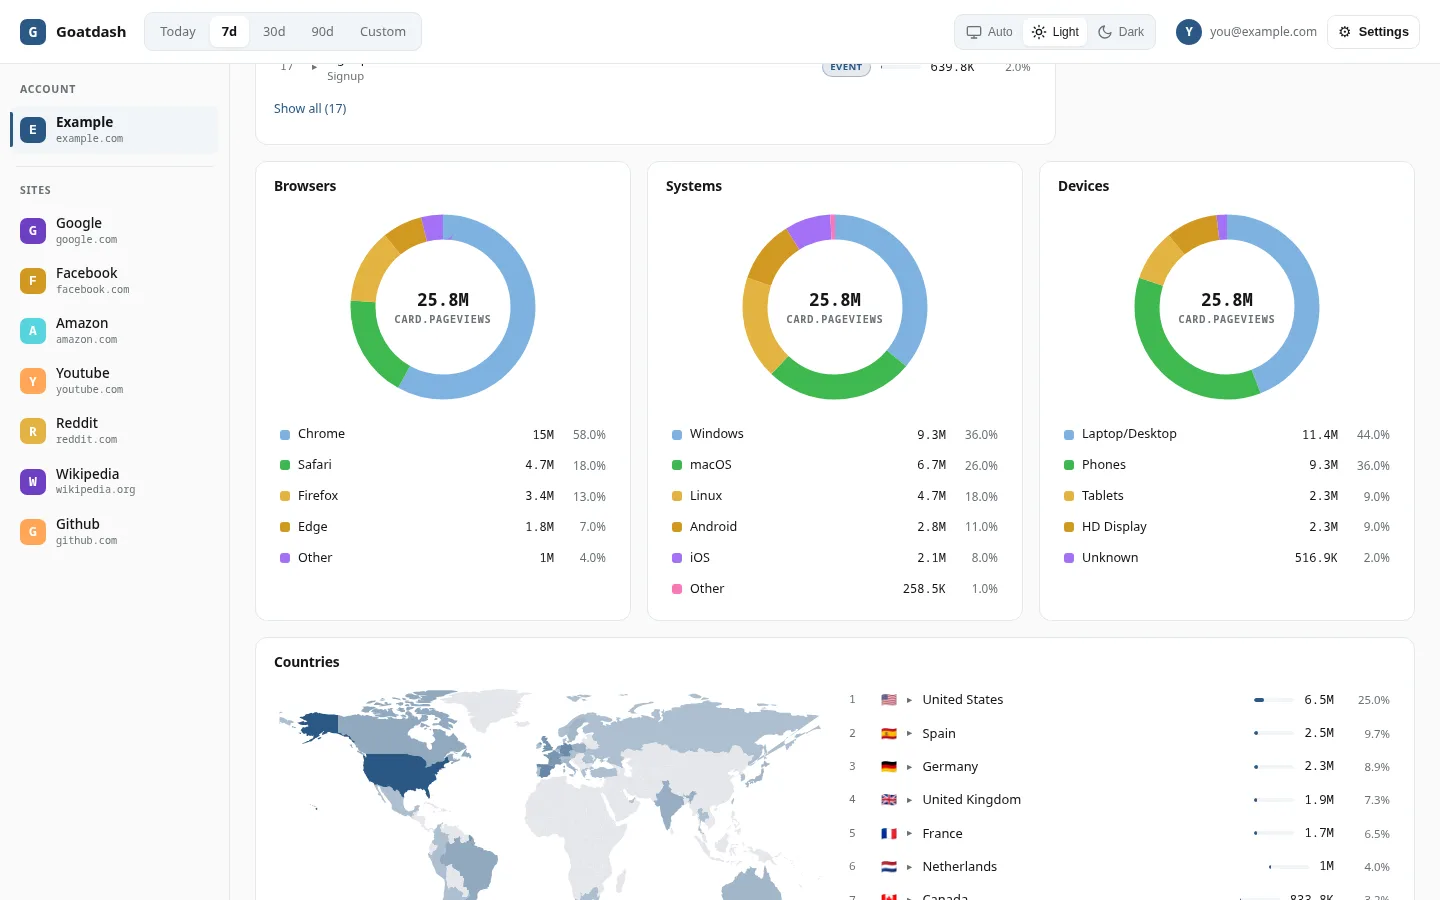
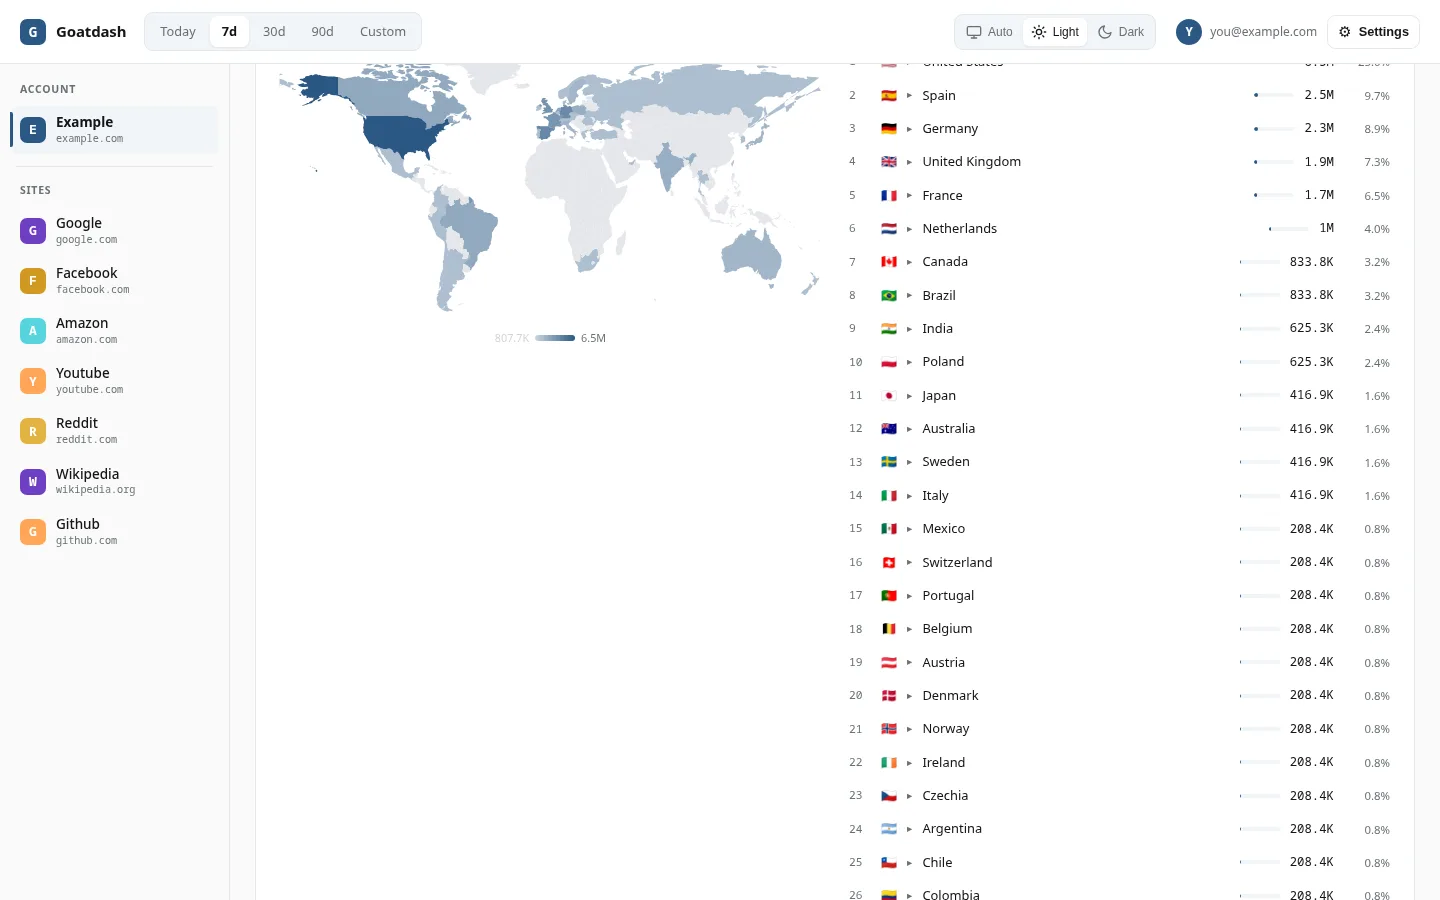
feat(landing): screenshots as a scroll sequence, cover to page bottom
Replace the standalone views with a vertical scroll story: cover (KPIs +
traffic), pages/referrers/languages, browsers/systems/devices, and the
world map at the bottom. All 16 shots at 1440px with millions traffic and
simulated domains; demo banner and demo user label removed. Cache-bust v2.

diff --git a/landing/index.html b/landing/index.html
@@ -28,7 +28,7 @@
   <link rel="preconnect" href="https://fonts.googleapis.com" />
   <link rel="preconnect" href="https://fonts.gstatic.com" crossorigin />
   <link href="https://fonts.googleapis.com/css2?family=Space+Grotesk:wght@400;500;600;700&family=JetBrains+Mono:wght@400;500;600&display=swap" rel="stylesheet" />
-  <link rel="stylesheet" href="styles.css?v=1" />
+  <link rel="stylesheet" href="styles.css?v=2" />
   <script type="application/ld+json">
   {
     "@context": "https://schema.org",
@@ -206,17 +206,16 @@
       <h2 class="font-display" data-i18n="shots.title">Un vistazo a la interfaz.</h2>
       <div class="slider reveal">
         <div class="slider-main">
-          <img id="shotImg" src="assets/shot-main-es-light.webp" alt="Vista principal: KPIs, tráfico y referrers" tabindex="0" data-i18n-aria="shots.open" />
+          <img id="shotImg" src="assets/shot-cover-es-light.webp" alt="Portada del dashboard: KPIs y tráfico" tabindex="0" data-i18n-aria="shots.open" />
           <button id="shotPrev" class="slider-btn slider-prev" aria-label="Captura anterior" data-i18n-aria="shots.prev">‹</button>
           <button id="shotNext" class="slider-btn slider-next" aria-label="Captura siguiente" data-i18n-aria="shots.next">›</button>
         </div>
         <p class="slider-caption" id="shotCaption">Vista principal: KPIs, tráfico y referrers</p>
         <div class="thumbs" role="group" aria-label="Capturas">
-          <button type="button" class="thumb" data-slide="0" aria-label="Vista principal"><img src="assets/shot-main-es-light.webp" alt="" data-view="main" /></button>
-          <button type="button" class="thumb" data-slide="1" aria-label="Mapa mundial"><img src="assets/shot-map-es-light.webp" alt="" data-view="map" /></button>
-          <button type="button" class="thumb" data-slide="2" aria-label="Referrers"><img src="assets/shot-referrers-es-light.webp" alt="" data-view="referrers" /></button>
-          <button type="button" class="thumb" data-slide="3" aria-label="Sidebar"><img src="assets/shot-sidebar-es-light.webp" alt="" data-view="sidebar" /></button>
-          <button type="button" class="thumb" data-slide="4" aria-label="Geo"><img src="assets/shot-geo-es-light.webp" alt="" data-view="geo" /></button>
+          <button type="button" class="thumb" data-slide="0" aria-label="Portada"><img src="assets/shot-cover-es-light.webp" alt="" data-view="cover" /></button>
+          <button type="button" class="thumb" data-slide="1" aria-label="Páginas"><img src="assets/shot-pages-es-light.webp" alt="" data-view="pages" /></button>
+          <button type="button" class="thumb" data-slide="2" aria-label="Navegadores"><img src="assets/shot-donuts-es-light.webp" alt="" data-view="donuts" /></button>
+          <button type="button" class="thumb" data-slide="3" aria-label="Mapa"><img src="assets/shot-geo-es-light.webp" alt="" data-view="geo" /></button>
         </div>
       </div>
     </div></section>
@@ -331,8 +330,8 @@
     </div>
   </div>
 
-  <script src="i18n.js?v=1"></script>
-  <script src="app.js?v=1"></script>
+  <script src="i18n.js?v=2"></script>
+  <script src="app.js?v=2"></script>
   <script data-goatcounter="https://stats.goatdash.cloudless.club/count" async src="//stats.goatdash.cloudless.club/count.js"></script>
 </body>
 </html>

diff --git a/landing/app.js b/landing/app.js
@@ -8,13 +8,12 @@
   const root = document.documentElement;
 
   /* Capturas: orden de las vistas + alt por idioma */
-  const SLIDES = ['main', 'map', 'referrers', 'sidebar', 'geo'];
+  const SLIDES = ['cover', 'pages', 'donuts', 'geo'];
   const SHOT_ALT = {
-    main: { es: 'Vista principal del dashboard: cinco tarjetas de KPI, gráfico de tráfico y tarjeta de referencias', en: 'Main dashboard view: five KPI cards, traffic chart and the referrers card' },
-    map: { es: 'Mapa mundial coroplético con países sombreados por número de visitas', en: 'Choropleth world map with countries shaded by visit count' },
-    referrers: { es: 'Tarjeta de referencias con los canales Directo, Buscadores, Campañas y Otros sitios', en: 'Referrers card with the Direct, Search engines, Campaigns and Other sites channels' },
-    sidebar: { es: 'Dashboard con la barra lateral abierta, listando la cuenta y sus subsitios', en: 'Dashboard with the sidebar open, listing the account and its subsites' },
-    geo: { es: 'Mapa mundial coroplético sombreado por visitas junto a la lista de países principales', en: 'Choropleth world map shaded by visits next to the top countries list' }
+    cover: { es: 'Portada del dashboard: cinco tarjetas de KPI y el gráfico de tráfico', en: 'Dashboard cover: five KPI cards and the traffic chart' },
+    pages: { es: 'Scroll medio: páginas principales, referencias y idiomas', en: 'Middle scroll: top pages, referrers and languages' },
+    donuts: { es: 'Scroll inferior: navegadores, sistemas y dispositivos', en: 'Lower scroll: browsers, systems and devices' },
+    geo: { es: 'Fondo de la página: mapa mundial de visitas por país', en: 'Page bottom: world map of visits by country' }
   };
 
   /* ---------- Idioma ---------- */

diff --git a/landing/i18n.js b/landing/i18n.js
@@ -74,11 +74,10 @@ const I18N = {
 
     'shots.eyebrow': 'Capturas',
     'shots.title': 'Un vistazo a la interfaz.',
-    'shots.main': 'Vista principal: KPIs, tráfico y referrers',
-    'shots.map': 'Mapa mundial de visitas por país',
-    'shots.referrers': 'Referrers por canal con drill',
-    'shots.sidebar': 'Barra lateral con la cuenta y sus subsitios',
-    'shots.geo': 'Mapa mundial y lista de países',
+    'shots.cover': 'Portada: KPIs y tráfico',
+    'shots.pages': 'Páginas, referencias e idiomas',
+    'shots.donuts': 'Navegadores, sistemas y dispositivos',
+    'shots.geo': 'Mapa mundial de visitas por país',
     'shots.prev': 'Captura anterior',
     'shots.next': 'Captura siguiente',
     'shots.open': 'Ampliar captura',
@@ -222,11 +221,10 @@ const I18N = {
 
     'shots.eyebrow': 'Screenshots',
     'shots.title': 'A look at the interface.',
-    'shots.main': 'Main view: KPIs, traffic and referrers',
-    'shots.map': 'World map of visits by country',
-    'shots.referrers': 'Referrers by channel with drill',
-    'shots.sidebar': 'Sidebar with the account and its subsites',
-    'shots.geo': 'World map and top countries',
+    'shots.cover': 'Cover: KPIs and traffic',
+    'shots.pages': 'Pages, referrers and languages',
+    'shots.donuts': 'Browsers, systems and devices',
+    'shots.geo': 'World map of visits by country',
     'shots.prev': 'Previous screenshot',
     'shots.next': 'Next screenshot',
     'shots.open': 'Enlarge screenshot',
